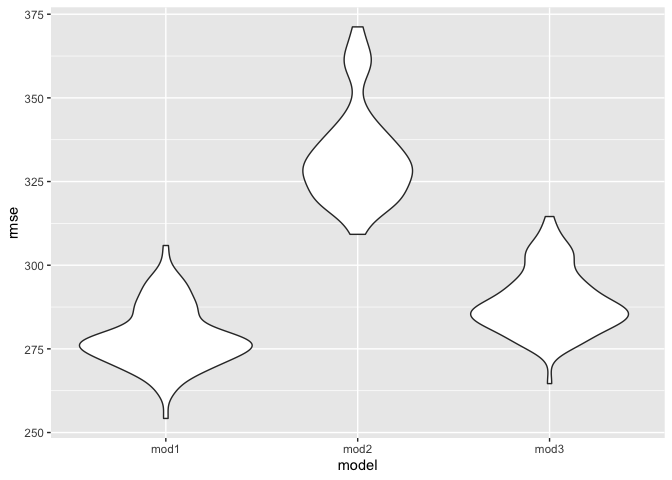
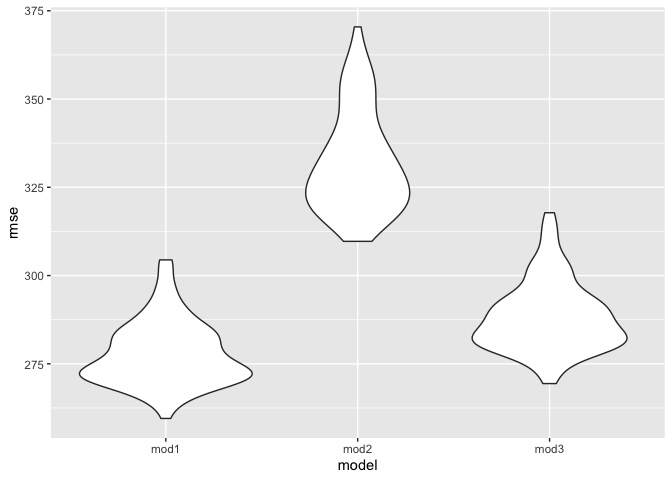
finalized

diff --git a/p8105_hw6_jd3924.md b/p8105_hw6_jd3924.md
@@ -117,30 +117,34 @@ baltimore_df
 ``` r
 fit_logistic = 
   baltimore_df %>% 
-  mutate(resolved = as.factor(resolved)) %>%
-  glm(resolved ~ victim_age + victim_race + victim_sex, data = ., family = binomial())
+  mutate(resolved = ifelse(resolved == "solved", 1, 0)) %>%
+  glm(resolved ~ victim_age + victim_sex + victim_race, data = ., family = binomial())
 
 fit_logistic %>% 
   broom::tidy() %>% 
   mutate(OR = exp(estimate),
          lower = exp(estimate - 1.96 * std.error),
          upper = exp(estimate + 1.96 * std.error)) %>%
+  select(term, estimate, OR, lower, upper, p.value) %>%
   knitr::kable(digits = 3)
 ```
 
-| term             | estimate | std.error | statistic | p.value |    OR | lower | upper |
-|:-----------------|---------:|----------:|----------:|--------:|------:|------:|------:|
-| (Intercept)      |   -0.310 |     0.171 |    -1.810 |   0.070 | 0.733 | 0.524 | 1.026 |
-| victim_age       |    0.007 |     0.003 |     2.024 |   0.043 | 1.007 | 1.000 | 1.013 |
-| victim_raceWhite |   -0.842 |     0.175 |    -4.818 |   0.000 | 0.431 | 0.306 | 0.607 |
-| victim_sexMale   |    0.854 |     0.138 |     6.184 |   0.000 | 2.350 | 1.793 | 3.081 |
+| term             | estimate |    OR | lower | upper | p.value |
+|:-----------------|---------:|------:|------:|------:|--------:|
+| (Intercept)      |    0.310 | 1.363 | 0.975 | 1.907 |   0.070 |
+| victim_age       |   -0.007 | 0.993 | 0.987 | 1.000 |   0.043 |
+| victim_sexMale   |   -0.854 | 0.426 | 0.325 | 0.558 |   0.000 |
+| victim_raceWhite |    0.842 | 2.320 | 1.648 | 3.268 |   0.000 |
 
 ``` r
 glm_cities = 
   homicides_data %>%
+  mutate(
+      resolved = ifelse(resolved == "solved", 1, 0)
+  ) %>%
   nest(data = -city_state) %>%
   mutate(
-    models = map(data, ~glm(as.factor(resolved) ~ victim_age + victim_race + victim_sex, data = .x, family = binomial())),
+    models = map(data, ~glm(resolved ~ victim_age + victim_race + victim_sex, data = .x, family = binomial())),
   results = map(models, broom::tidy)) %>% 
   select(-data, -models) %>% 
   unnest(results)
@@ -149,24 +153,25 @@ glm_cities =
   glm_cities %>% 
   mutate(OR = exp(estimate),
          lower = exp(estimate - 1.96 * std.error),
-         upper = exp(estimate + 1.96 * std.error))
+         upper = exp(estimate + 1.96 * std.error)) %>%
+  select(city_state, term, estimate, OR, lower, upper, p.value)
 glm_cities
 ```
 
-    ## # A tibble: 193 × 9
-    ##    city_state     term   estimate std.e…¹ statis…² p.value      OR lower   upper
-    ##    <chr>          <chr>     <dbl>   <dbl>    <dbl>   <dbl>   <dbl> <dbl>   <dbl>
-    ##  1 Albuquerque,NM (Inte… -6.47e-1 6.34e-1 -1.02e+0 3.07e-1 5.23e-1 0.151   1.81 
-    ##  2 Albuquerque,NM victi…  2.01e-2 9.11e-3  2.21e+0 2.71e-2 1.02e+0 1.00    1.04 
-    ##  3 Albuquerque,NM victi… -3.96e-1 4.17e-1 -9.49e-1 3.42e-1 6.73e-1 0.298   1.52 
-    ##  4 Albuquerque,NM victi… -5.50e-1 3.86e-1 -1.43e+0 1.54e-1 5.77e-1 0.271   1.23 
-    ##  5 Albuquerque,NM victi…  1.46e+1 8.83e+2  1.65e-2 9.87e-1 2.17e+6 0     Inf    
-    ##  6 Atlanta,GA     (Inte… -8.69e-1 2.42e-1 -3.60e+0 3.21e-4 4.19e-1 0.261   0.673
-    ##  7 Atlanta,GA     victi…  1.16e-2 4.66e-3  2.50e+0 1.24e-2 1.01e+0 1.00    1.02 
-    ##  8 Atlanta,GA     victi… -2.69e-1 2.84e-1 -9.45e-1 3.45e-1 7.64e-1 0.438   1.33 
-    ##  9 Atlanta,GA     victi… -7.71e-5 1.94e-1 -3.97e-4 1.00e+0 1.00e+0 0.683   1.46 
-    ## 10 Baltimore,MD   (Inte… -3.10e-1 1.71e-1 -1.81e+0 7.04e-2 7.33e-1 0.524   1.03 
-    ## # … with 183 more rows, and abbreviated variable names ¹std.error, ²statistic
+    ## # A tibble: 193 × 7
+    ##    city_state     term                 estimate         OR lower   upper p.value
+    ##    <chr>          <chr>                   <dbl>      <dbl> <dbl>   <dbl>   <dbl>
+    ##  1 Albuquerque,NM (Intercept)         0.647        1.91e+0 0.551   6.62  3.07e-1
+    ##  2 Albuquerque,NM victim_age         -0.0201       9.80e-1 0.963   0.998 2.71e-2
+    ##  3 Albuquerque,NM victim_raceWhite    0.396        1.49e+0 0.656   3.36  3.42e-1
+    ##  4 Albuquerque,NM victim_sexMale      0.550        1.73e+0 0.814   3.70  1.54e-1
+    ##  5 Albuquerque,NM victim_sexUnknown -14.6          4.61e-7 0     Inf     9.87e-1
+    ##  6 Atlanta,GA     (Intercept)         0.869        2.39e+0 1.49    3.83  3.21e-4
+    ##  7 Atlanta,GA     victim_age         -0.0116       9.88e-1 0.979   0.997 1.24e-2
+    ##  8 Atlanta,GA     victim_raceWhite    0.269        1.31e+0 0.749   2.28  3.45e-1
+    ##  9 Atlanta,GA     victim_sexMale      0.0000771    1.00e+0 0.684   1.46  1.00e+0
+    ## 10 Baltimore,MD   (Intercept)         0.310        1.36e+0 0.975   1.91  7.04e-2
+    ## # … with 183 more rows
 
 ``` r
 male_vs_female = 
@@ -176,7 +181,7 @@ male_vs_female =
   ggplot(aes(x = city_state, y = OR)) +
   geom_point() + 
   geom_errorbar(aes(ymin = lower, ymax = upper)) + 
-  theme(axis.text.x = element_text(angle = 80, hjust = 1)) +
+  theme(axis.text.x = element_text(angle = 90, hjust = 1)) +
   labs(
     x = "city,state",
     y = "estimated OR",
@@ -186,9 +191,11 @@ male_vs_female
 ```
 
 ![](p8105_hw6_jd3924_files/figure-gfm/unnamed-chunk-6-1.png)<!-- -->
-Holding all other variables constant, homicides with male victims are
+when all other variables fixed, homicides with male victims are
 relatively less likely to be resolved than homicides with female victims
-in all cities.
+in all cities.And city Albuquerque,NM has the highest odd ratio. And New
+York has the lowest odd ratio, also it confidence interval does not
+contain 1.
 
 Question3
 
@@ -471,31 +478,22 @@ cv_df =
     rmse_mod1 = map2_dbl(.x=mod1, .y=test, ~rmse(model = .x, data = .y)),
     rmse_mod2 = map2_dbl(.x=mod2, .y=test, ~rmse(model = .x, data = .y)),
     rmse_mod3 = map2_dbl(.x=mod3, .y=test, ~rmse(model = .x, data = .y)))
-```
-
-    ## Warning in predict.lm(object, newdata, se.fit, scale = 1, type = if (type == :
-    ## 用秩缺乏拟合来进行预测的结果很可能不可靠
-
-    ## Warning in predict.lm(object, newdata, se.fit, scale = 1, type = if (type == :
-    ## 用秩缺乏拟合来进行预测的结果很可能不可靠
-
-``` r
 cv_df
 ```
 
     ## # A tibble: 100 × 9
     ##    train    test                .id   mod1   mod2  mod3  rmse_…¹ rmse_…² rmse_…³
     ##    <list>   <list>              <chr> <list> <lis> <lis>   <dbl>   <dbl>   <dbl>
-    ##  1 <tibble> <tibble [869 × 20]> 001   <glm>  <glm> <glm>    293.    342.    301.
-    ##  2 <tibble> <tibble [869 × 20]> 002   <glm>  <glm> <glm>    273.    328.    282.
-    ##  3 <tibble> <tibble [869 × 20]> 003   <glm>  <glm> <glm>    277.    318.    284.
-    ##  4 <tibble> <tibble [869 × 20]> 004   <glm>  <glm> <glm>    269.    332.    283.
-    ##  5 <tibble> <tibble [869 × 20]> 005   <glm>  <glm> <glm>    263.    321.    277.
-    ##  6 <tibble> <tibble [869 × 20]> 006   <glm>  <glm> <glm>    287.    356.    299.
-    ##  7 <tibble> <tibble [869 × 20]> 007   <glm>  <glm> <glm>    281.    325.    289.
-    ##  8 <tibble> <tibble [869 × 20]> 008   <glm>  <glm> <glm>    267.    324.    280.
-    ##  9 <tibble> <tibble [869 × 20]> 009   <glm>  <glm> <glm>    279.    339.    287.
-    ## 10 <tibble> <tibble [869 × 20]> 010   <glm>  <glm> <glm>    287.    329.    295.
+    ##  1 <tibble> <tibble [869 × 20]> 001   <glm>  <glm> <glm>    281.    337.    293.
+    ##  2 <tibble> <tibble [869 × 20]> 002   <glm>  <glm> <glm>    273.    327.    279.
+    ##  3 <tibble> <tibble [869 × 20]> 003   <glm>  <glm> <glm>    274.    320.    285.
+    ##  4 <tibble> <tibble [869 × 20]> 004   <glm>  <glm> <glm>    276.    339.    288.
+    ##  5 <tibble> <tibble [869 × 20]> 005   <glm>  <glm> <glm>    275.    313.    283.
+    ##  6 <tibble> <tibble [869 × 20]> 006   <glm>  <glm> <glm>    285.    336.    293.
+    ##  7 <tibble> <tibble [869 × 20]> 007   <glm>  <glm> <glm>    282.    330.    292.
+    ##  8 <tibble> <tibble [869 × 20]> 008   <glm>  <glm> <glm>    271.    342.    287.
+    ##  9 <tibble> <tibble [869 × 20]> 009   <glm>  <glm> <glm>    272.    321.    281.
+    ## 10 <tibble> <tibble [869 × 20]> 010   <glm>  <glm> <glm>    278.    333.    291.
     ## # … with 90 more rows, and abbreviated variable names ¹rmse_mod1, ²rmse_mod2,
     ## #   ³rmse_mod3
 
